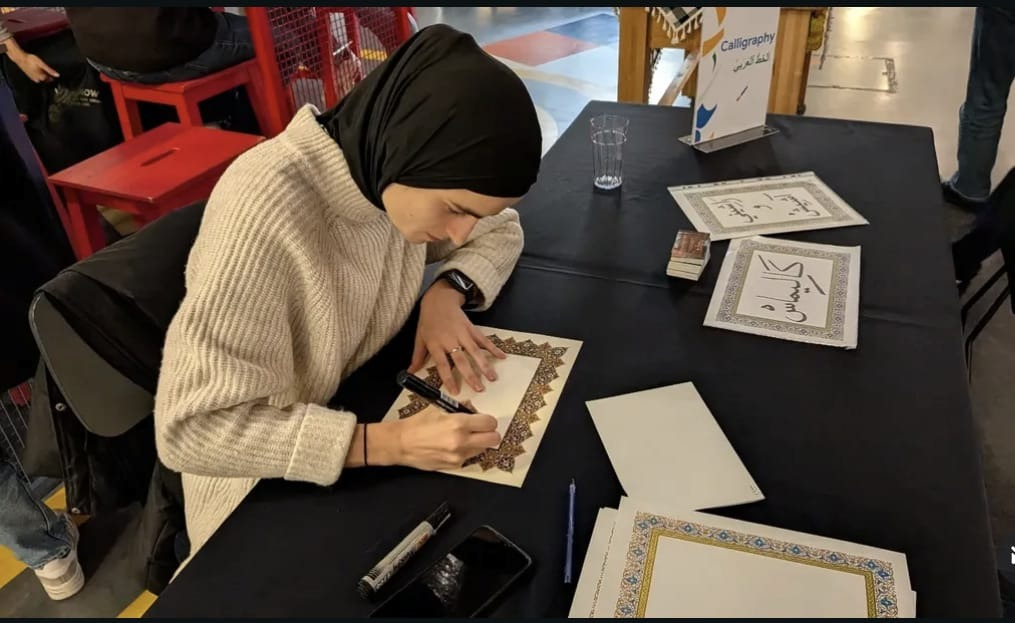
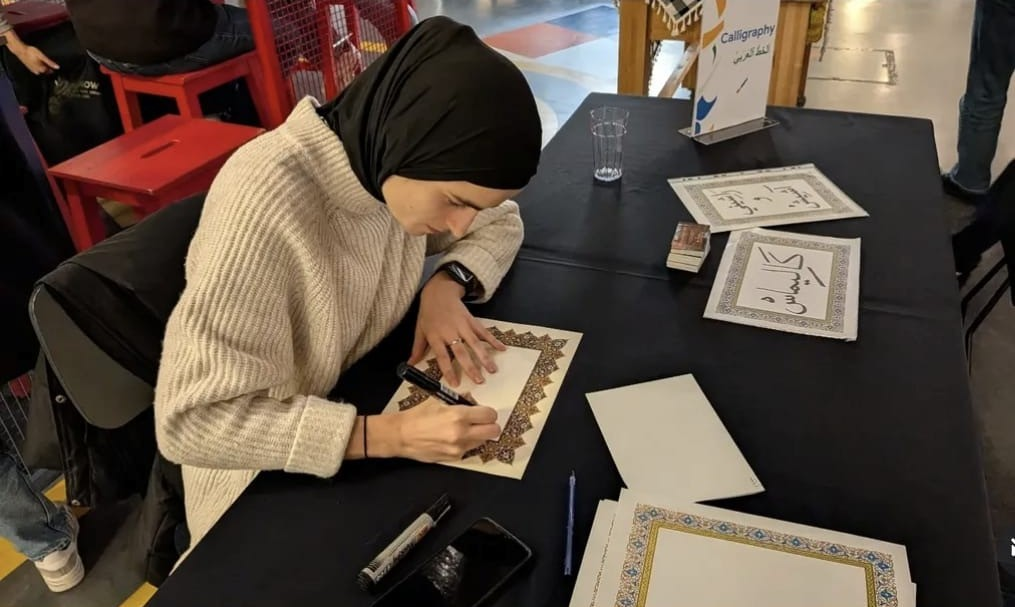
fix(mobile): resolve header-hero gap, streamline mobile hero, remove carousel arrows, and optimize performance

diff --git a/src/pages/HomePage.tsx b/src/pages/HomePage.tsx
@@ -1,6 +1,6 @@
 import React, { useRef } from 'react';
 import { motion } from 'framer-motion';
-import { ArrowRight, ChevronLeft, ChevronRight } from 'lucide-react';
+import { ArrowRight } from 'lucide-react';
 import { ArtworkWithAsset, ARTWORKS_DATA } from '../data/artworks';
 import { ArtworkCard } from '../components/ArtworkCard';
 import { Button } from '../components/Button';
@@ -20,22 +20,10 @@ export const HomePage: React.FC<HomePageProps> = ({
   const featuredArtworks = ARTWORKS_DATA.filter((a) => a.featured);
   const carouselRef = useRef<HTMLDivElement>(null);
 
-  const scrollPrev = () => {
-    if (carouselRef.current) {
-      carouselRef.current.scrollBy({ left: -360, behavior: 'smooth' });
-    }
-  };
-
-  const scrollNext = () => {
-    if (carouselRef.current) {
-      carouselRef.current.scrollBy({ left: 360, behavior: 'smooth' });
-    }
-  };
-
   return (
     <div className="relative z-10 w-full overflow-hidden">
       {/* 1. FULL-SCREEN IMMERSIVE HERO SECTION */}
-      <section className="relative min-h-[100dvh] h-[100dvh] w-full flex items-center justify-center overflow-hidden border-b border-theme-border">
+      <section className="relative w-full h-[calc(100svh-3.5rem)] sm:h-[calc(100svh-4rem)] min-h-[480px] flex items-center justify-center overflow-hidden border-b border-theme-border">
         {/* Full-bleed background image covering the entire viewport */}
         <div className="absolute inset-0 z-0">
           <img
@@ -43,72 +31,65 @@ export const HomePage: React.FC<HomePageProps> = ({
             alt="Asma Shala creating Arabic calligraphy"
             className="w-full h-full object-cover object-[center_35%] sm:object-[center_30%]"
             loading="eager"
+            fetchPriority="high"
+            decoding="async"
           />
           {/* Subtle dark vignette/overlay to ensure text readability while keeping Asma visually prominent */}
-          <div className="absolute inset-0 bg-black/45 sm:bg-black/40" />
-          <div className="absolute inset-0 bg-gradient-to-t from-black/80 via-black/25 to-black/40" />
+          <div className="absolute inset-0 bg-black/35 sm:bg-black/30" />
+          <div className="absolute inset-0 bg-gradient-to-t from-black/80 via-transparent to-transparent" />
         </div>
 
         {/* Content placed directly over the background image */}
-        <div className="relative z-10 max-w-5xl mx-auto px-6 md:px-12 w-full text-center flex flex-col items-center justify-center">
+        <div className="relative z-10 max-w-4xl mx-auto px-6 sm:px-12 w-full text-center flex flex-col items-center justify-center">
           <motion.span
-            initial={{ opacity: 0, y: 15 }}
+            initial={{ opacity: 0, y: 12 }}
             animate={{ opacity: 1, y: 0 }}
-            transition={{ duration: 0.8, ease: [0.16, 1, 0.3, 1] }}
-            className="text-theme-accent font-sans text-xs md:text-sm tracking-[0.4em] uppercase font-semibold mb-4 block drop-shadow-sm"
+            transition={{ duration: 0.6, ease: [0.16, 1, 0.3, 1] }}
+            className="text-theme-accent font-sans text-[10px] sm:text-xs md:text-sm tracking-[0.3em] sm:tracking-[0.4em] uppercase font-semibold mb-2 sm:mb-4 block drop-shadow-sm"
           >
             FINE ARTIST &bull; CALLIGRAPHER &bull; IRELAND
           </motion.span>
 
           <motion.h1
-            initial={{ opacity: 0, y: 20 }}
+            initial={{ opacity: 0, y: 16 }}
             animate={{ opacity: 1, y: 0 }}
-            transition={{ delay: 0.1, duration: 0.9, ease: [0.16, 1, 0.3, 1] }}
-            className="font-serif font-light tracking-widest uppercase leading-[1.08] text-warm-white select-none text-4xl sm:text-6xl md:text-7xl drop-shadow-md"
+            transition={{ delay: 0.1, duration: 0.7, ease: [0.16, 1, 0.3, 1] }}
+            className="font-serif font-light tracking-widest uppercase leading-[1.05] text-warm-white select-none text-3xl sm:text-5xl md:text-6xl lg:text-7xl drop-shadow-md"
           >
             ASMA SHALA
           </motion.h1>
 
           <motion.p
-            initial={{ opacity: 0, y: 15 }}
+            initial={{ opacity: 0, y: 12 }}
             animate={{ opacity: 1, y: 0 }}
-            transition={{ delay: 0.2, duration: 0.9, ease: [0.16, 1, 0.3, 1] }}
-            className="font-serif italic lowercase text-warm-white/90 mt-3 text-xl sm:text-2xl md:text-3xl font-light tracking-wide drop-shadow-sm"
+            transition={{ delay: 0.2, duration: 0.7, ease: [0.16, 1, 0.3, 1] }}
+            className="font-serif uppercase tracking-[0.24em] sm:tracking-[0.28em] text-warm-white/90 mt-2 sm:mt-3 text-xs sm:text-base md:text-lg font-light drop-shadow-sm"
           >
-            art that holds a story
-          </motion.p>
-
-          <motion.p
-            initial={{ opacity: 0 }}
-            animate={{ opacity: 1 }}
-            transition={{ delay: 0.3, duration: 0.9 }}
-            className="font-sans text-xs md:text-sm tracking-[0.2em] uppercase text-warm-white/80 max-w-xl mx-auto mt-4 leading-relaxed drop-shadow-sm"
-          >
-            Original paintings &amp; Arabic calligraphy created to bring character and meaning into personal spaces.
+            Art That Holds A Story
           </motion.p>
 
           {/* Action Buttons directly over background */}
           <motion.div
-            initial={{ opacity: 0, y: 20 }}
+            initial={{ opacity: 0, y: 16 }}
             animate={{ opacity: 1, y: 0 }}
-            transition={{ delay: 0.45, duration: 0.8 }}
-            className="flex flex-wrap justify-center items-center gap-4 sm:gap-6 mt-8 sm:mt-10"
+            transition={{ delay: 0.3, duration: 0.7 }}
+            className="flex flex-col sm:flex-row justify-center items-center gap-3 sm:gap-5 mt-6 sm:mt-8 w-full sm:w-auto max-w-xs sm:max-w-none"
           >
-            <Magnetic range={40} strength={0.3}>
+            <Magnetic range={30} strength={0.25}>
               <Button
                 onClick={() => onNavigate('artwork')}
                 variant="gold"
-                className="shadow-lg"
+                className="w-full sm:w-auto py-3 sm:py-3.5 px-6 sm:px-8 text-[9px] sm:text-[10px] tracking-[0.22em] shadow-lg"
               >
                 EXPLORE EXHIBITION
               </Button>
             </Magnetic>
 
-            <Magnetic range={40} strength={0.3}>
+            <Magnetic range={30} strength={0.25}>
               <Button
                 onClick={() => onNavigate('commissions')}
                 variant="outline"
-                className="text-warm-white border-warm-white/40 hover:border-warm-white bg-black/20 backdrop-blur-xs shadow-lg"
+                className="w-full sm:w-auto py-3 sm:py-3.5 px-6 sm:px-8 text-[9px] sm:text-[10px] tracking-[0.22em] text-warm-white border-warm-white/40 hover:border-warm-white bg-black/25 backdrop-blur-xs shadow-lg"
               >
                 COMMISSION A PIECE
               </Button>
@@ -152,64 +133,38 @@ export const HomePage: React.FC<HomePageProps> = ({
       </section>
 
       {/* 3. CURATED SELECTION / FEATURED CREATIONS CAROUSEL */}
-      <section id="featured-creations" className="py-20 md:py-28 bg-theme-bg text-theme-text">
+      <section id="featured-creations" className="py-16 sm:py-20 md:py-28 bg-theme-bg text-theme-text">
         <div className="max-w-7xl mx-auto px-6 md:px-12">
-          {/* Section Header with Carousel Controls */}
-          <div className="flex flex-col md:flex-row md:items-end justify-between mb-10 text-left border-b border-theme-border pb-6 gap-4">
+          {/* Section Header with Explore All Link */}
+          <div className="flex justify-between items-end mb-8 sm:mb-10 text-left border-b border-theme-border pb-5 sm:pb-6">
             <div>
-              <span className="text-[10px] font-sans tracking-[0.35em] text-theme-accent uppercase font-semibold block mb-2">
+              <span className="text-[10px] font-sans tracking-[0.35em] text-theme-accent uppercase font-semibold block mb-1.5 sm:mb-2">
                 CURATED SELECTION
               </span>
-              <h2 className="font-serif text-3xl sm:text-4xl md:text-5xl font-light uppercase tracking-widest text-theme-text">
+              <h2 className="font-serif text-2xl sm:text-4xl md:text-5xl font-light uppercase tracking-widest text-theme-text">
                 Featured Creations
               </h2>
             </div>
 
-            <div className="flex items-center gap-4">
-              {/* Previous & Next Carousel Navigation Arrows */}
-              <div className="flex items-center gap-2">
-                <button
-                  onClick={scrollPrev}
-                  className="p-2.5 rounded-full border border-theme-border bg-theme-bg-card hover:bg-theme-text hover:text-theme-bg transition-colors cursor-pointer text-theme-text"
-                  title="Scroll left"
-                  aria-label="Previous paintings"
-                >
-                  <ChevronLeft size={18} strokeWidth={1.5} />
-                </button>
-                <button
-                  onClick={scrollNext}
-                  className="p-2.5 rounded-full border border-theme-border bg-theme-bg-card hover:bg-theme-text hover:text-theme-bg transition-colors cursor-pointer text-theme-text"
-                  title="Scroll right"
-                  aria-label="Next paintings"
-                >
-                  <ChevronRight size={18} strokeWidth={1.5} />
-                </button>
-              </div>
-
-              <button
-                onClick={() => onNavigate('artwork')}
-                className="font-sans text-[10px] tracking-[0.25em] uppercase text-theme-text-muted hover:text-theme-accent transition-colors inline-flex items-center gap-1.5 cursor-pointer font-medium ml-2"
-              >
-                <span>EXPLORE ALL</span>
-                <ArrowRight size={12} />
-              </button>
-            </div>
+            <button
+              onClick={() => onNavigate('artwork')}
+              className="font-sans text-[10px] sm:text-xs tracking-[0.25em] uppercase text-theme-text-muted hover:text-theme-accent transition-colors inline-flex items-center gap-1.5 cursor-pointer font-medium shrink-0 pb-1"
+            >
+              <span>EXPLORE ALL</span>
+              <ArrowRight size={13} />
+            </button>
           </div>
 
-          {/* Horizontal Artwork Carousel */}
+          {/* Horizontal Artwork Carousel — Natural Momentum Swiping on Mobile */}
           <div
             ref={carouselRef}
-            className="flex gap-6 sm:gap-8 overflow-x-auto no-scrollbar scroll-smooth snap-x snap-mandatory pb-4 pt-1 -mx-2 px-2"
+            className="flex gap-5 sm:gap-8 overflow-x-auto no-scrollbar scroll-smooth snap-x snap-mandatory pb-4 pt-1 -mx-4 px-4 sm:-mx-2 sm:px-2 touch-pan-x"
             tabIndex={0}
-            onKeyDown={(e) => {
-              if (e.key === 'ArrowLeft') scrollPrev();
-              if (e.key === 'ArrowRight') scrollNext();
-            }}
           >
             {featuredArtworks.map((artwork) => (
               <div
                 key={artwork.id}
-                className="w-[280px] sm:w-[320px] md:w-[350px] shrink-0 snap-start"
+                className="w-[260px] sm:w-[320px] md:w-[350px] shrink-0 snap-start"
               >
                 <ArtworkCard
                   artwork={artwork}

diff --git a/src/App.tsx b/src/App.tsx
@@ -53,11 +53,18 @@ function AppContent() {
   }, [activeTab]);
 
   useEffect(() => {
+    let ticking = false;
     const handleScroll = () => {
-      const totalScroll = document.documentElement.scrollHeight - window.innerHeight;
-      const progress = totalScroll > 0 ? (window.scrollY / totalScroll) * 100 : 0;
-      setScrollProgress(progress);
-      setShowScrollTop(window.scrollY > 400);
+      if (!ticking) {
+        window.requestAnimationFrame(() => {
+          const totalScroll = document.documentElement.scrollHeight - window.innerHeight;
+          const progress = totalScroll > 0 ? (window.scrollY / totalScroll) * 100 : 0;
+          setScrollProgress(progress);
+          setShowScrollTop(window.scrollY > 400);
+          ticking = false;
+        });
+        ticking = true;
+      }
     };
 
     window.addEventListener('scroll', handleScroll, { passive: true });
@@ -116,7 +123,7 @@ function AppContent() {
       />
 
       {/* Main Pages */}
-      <main className="relative z-10 w-full flex-grow pt-16">
+      <main className="relative z-10 w-full flex-grow pt-14 sm:pt-16">
         {activeTab === 'home' && (
           <HomePage
             onNavigate={handleNavigate}

diff --git a/src/components/ArtworkVisual.tsx b/src/components/ArtworkVisual.tsx
@@ -29,8 +29,10 @@ export const ArtworkVisual: React.FC<ArtworkVisualProps> = ({
       <div className={`relative overflow-hidden bg-theme-bg-surface flex items-center justify-center ${showFraming ? 'max-h-[60vh] w-auto' : aspectClass} ${className}`}>
         <img
           src={artwork.imageSrc}
-          alt={`${artwork.title} — ${artwork.medium} by Asma Shala`}
+          alt={`${artwork.title} — ${artwork.medium || 'Artwork'} by Asma Shala`}
           onError={() => setImageError(true)}
+          loading="lazy"
+          decoding="async"
           className="w-full h-full object-contain p-1 transition-transform duration-700 ease-out group-hover:scale-[1.02]"
         />
       </div>

diff --git a/src/components/Navbar.tsx b/src/components/Navbar.tsx
@@ -30,8 +30,8 @@ export const Navbar: React.FC<NavbarProps> = ({
   };
 
   return (
-    <header className="fixed top-0 left-0 w-full z-[99] bg-[#FAF9F6] border-b border-[#E7E2DA] shadow-xs py-3.5 sm:py-4">
-      <div className="max-w-7xl mx-auto px-6 md:px-12 flex justify-between items-center">
+    <header className="fixed top-0 left-0 w-full z-[99] bg-[#FAF9F6] border-b border-[#E7E2DA] shadow-xs h-14 sm:h-16 flex items-center">
+      <div className="max-w-7xl mx-auto px-6 md:px-12 flex justify-between items-center w-full">
         {/* Brand Wordmark */}
         <div
           onClick={() => handleNavClick('home')}

diff --git a/index.html b/index.html
@@ -16,6 +16,9 @@
     <meta property="og:description" content="Original paintings and Arabic calligraphy by Ireland-based fine artist Asma Shala." />
     <meta property="og:site_name" content="SHALAGALLERY" />
 
+    <!-- Hero Image Preload for Instant First Contentful Paint -->
+    <link rel="preload" as="image" href="/asma-calligraphy-hero.jpg" fetchpriority="high" />
+
     <!-- Google Fonts: Matching Lily Portfolio typography -->
     <link rel="preconnect" href="https://fonts.googleapis.com">
     <link rel="preconnect" href="https://fonts.gstatic.com" crossorigin>
